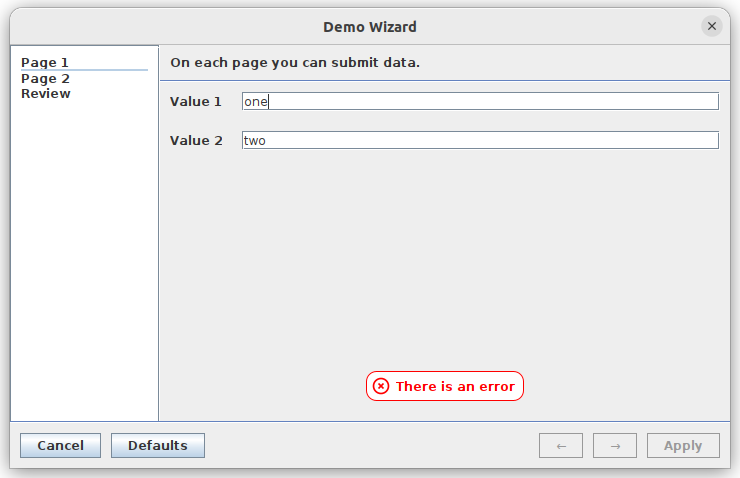
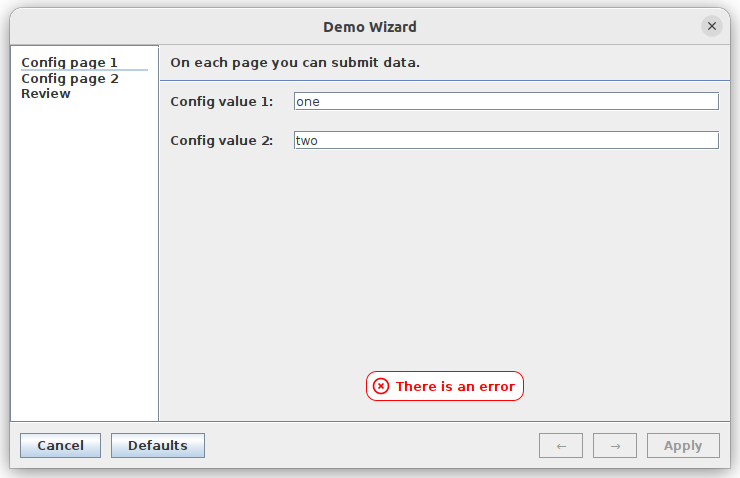
Add README.md

Changed region(s): [[0.2176, 0.2636, 0.4351, 0.3222], [0.2176, 0.1757, 0.4351, 0.2343], [0.0311, 0.1172, 0.1554, 0.1757]]

diff --git a/src/main/java/com/epau/lib/swing/wizard/demo/Page1.java b/src/main/java/com/epau/lib/swing/wizard/demo/Page1.java
@@ -18,12 +18,11 @@ import static java.awt.GridBagConstraints.NONE;
 
 class Page1 extends Page {
 
-	private final JTextField ownerField   = new JTextField(24);
-	private final JTextField projectField = new JTextField(24);
+	private final JTextField value1Field = new JTextField(24);
+	private final JTextField value2Field = new JTextField(24);
 	private final Page1Data  pageData;
 
 	private final DocumentListener documentListener = new DocumentChangeListener(this::pageChanged);
-
 
 	Page1(PageData pageData) {
 		super(pageData);
@@ -32,38 +31,38 @@ class Page1 extends Page {
 
 	@Override
 	public void build() {
-		var ownerLabel   = new JLabel("Value 1");
-		var projectLabel = new JLabel("Value 2");
+		var config1Label = new JLabel("Config value 1:");
+		var config2Label = new JLabel("Config value 2:");
 
-		content.add(ownerLabel, new GridBagConstraints(0, 0, 1, 1, 0.0, 0.0, LINE_START, NONE, new Insets(10, 10, 10, 10), 0, 0));
-		content.add(ownerField, new GridBagConstraints(1, 0, 1, 1, 1.0, 0.0, LINE_START, HORIZONTAL, new Insets(10, 10, 10, 10), 0, 0));
-		content.add(projectLabel, new GridBagConstraints(0, 1, 1, 1, 0.0, 0.0, LINE_START, NONE, new Insets(10, 10, 10, 10), 0, 0));
-		content.add(projectField, new GridBagConstraints(1, 1, 1, 1, 1.0, 0.0, LINE_START, HORIZONTAL, new Insets(10, 10, 10, 10), 0, 0));
+		content.add(config1Label, new GridBagConstraints(0, 0, 1, 1, 0.0, 0.0, LINE_START, NONE, new Insets(10, 10, 10, 10), 0, 0));
+		content.add(value1Field,  new GridBagConstraints(1, 0, 1, 1, 1.0, 0.0, LINE_START, HORIZONTAL, new Insets(10, 10, 10, 10), 0, 0));
+		content.add(config2Label, new GridBagConstraints(0, 1, 1, 1, 0.0, 0.0, LINE_START, NONE, new Insets(10, 10, 10, 10), 0, 0));
+		content.add(value2Field,  new GridBagConstraints(1, 1, 1, 1, 1.0, 0.0, LINE_START, HORIZONTAL, new Insets(10, 10, 10, 10), 0, 0));
 		content.add(new JPanel(), new GridBagConstraints(0, 2, 2, 1, 1.0, 1.0, LINE_START, BOTH, new Insets(10, 10, 10, 10), 0, 0));
 	}
 
 	@Override
 	protected void addListeners() {
-		ownerField.getDocument().addDocumentListener(documentListener);
-		projectField.getDocument().addDocumentListener(documentListener);
+		value1Field.getDocument().addDocumentListener(documentListener);
+		value2Field.getDocument().addDocumentListener(documentListener);
 	}
 
 	@Override
 	protected void removeListeners() {
-		ownerField.getDocument().removeDocumentListener(documentListener);
-		projectField.getDocument().removeDocumentListener(documentListener);
+		value1Field.getDocument().removeDocumentListener(documentListener);
+		value2Field.getDocument().removeDocumentListener(documentListener);
 	}
 
 	@Override
 	public void fillGUI() {
-		ownerField.setText(pageData.getValue1());
-		projectField.setText(pageData.getValue2());
+		value1Field.setText(pageData.getValue1());
+		value2Field.setText(pageData.getValue2());
 	}
 
 	@Override
 	public void updatePageData() {
-		pageData.setValue1(ownerField.getText().trim());
-		pageData.setValue2(projectField.getText().trim());
+		pageData.setValue1(value1Field.getText().trim());
+		pageData.setValue2(value2Field.getText().trim());
 	}
 
 	@Override
@@ -78,7 +77,7 @@ class Page1 extends Page {
 
 	@Override
 	public String getTitle() {
-		return "Page 1";
+		return "Config page 1";
 	}
 
 	@Override

diff --git a/src/main/java/com/epau/lib/swing/wizard/demo/DemoWizard.java b/src/main/java/com/epau/lib/swing/wizard/demo/DemoWizard.java
@@ -8,8 +8,10 @@ import org.jetbrains.annotations.NonNls;
 
 import java.awt.Dimension;
 import java.util.List;
+import java.util.Locale;
 import java.util.function.Supplier;
 
+import static java.util.Locale.ENGLISH;
 import static javax.swing.SwingUtilities.invokeLater;
 import static javax.swing.WindowConstants.EXIT_ON_CLOSE;
 
@@ -17,6 +19,7 @@ import static javax.swing.WindowConstants.EXIT_ON_CLOSE;
 class DemoWizard {
 
 	static void main() {
+//		Locale.setDefault(ENGLISH);
 		invokeLater(() -> {
 			var frame = new PageFrame("Demo Wizard");
 			var pool  = new PagePool(frame) {

diff --git a/src/main/java/com/epau/lib/swing/wizard/demo/Page2.java b/src/main/java/com/epau/lib/swing/wizard/demo/Page2.java
@@ -105,7 +105,7 @@ class Page2 extends Page {
 
 	@Override
 	public String getTitle() {
-		return "Page 2";
+		return "Config page 2";
 	}
 
 	@Override

diff --git a/README.md b/README.md
@@ -1,0 +1,41 @@
+A Java Swing library for creating wizards (e.g. installers).
+
+The wizard is made up of two stages:
+- Configuration: Put in configuration data on each wizard page.
+- Execution: Click *Apply* on the final page. A dialog appears where operations can be started (e.g. a software installation).
+
+# How to use
+- Run a demo with DemoWizard.main().
+- If you want to use this library to create your own wizard, see the package *demo* for inspiration.
+
+# Classes overview
+
+## Core classes
+Each wizard page is represented by a pair of classes:
+- Page: Manages the GUI.  
+- PageData: Manages the data.
+
+PageData functionality
+- Load/Save data from/to storage.
+- Load default values.
+- Validate all data.
+
+Page functionality
+- Build the GUI and fill it with data from PageData. 
+- Write changes performed in the GUI back to PageData. 
+
+When validation results are available, the page displays a status bar. 
+Clicking the status bar opens a dialog with all validation results.
+
+## Supporting classes
+- PagePool: Contains all available pages and manages navigation between them.
+- PageDataPool: Contains references to all PageData objects.
+- ButtonBar: Contains all buttons at the bottom of the wizard. (Cancel, Back, Next, Apply)
+- PageTitleList: A list of all pages.
+- PageFrame: The main window of the wizard. It contains 
+  - the PageTitleList (left), 
+  - the page area (right),
+  - the ButtonBar (bottom).
+
+# Image
+![Demo Wizard](/images/demo-wizard.png)
